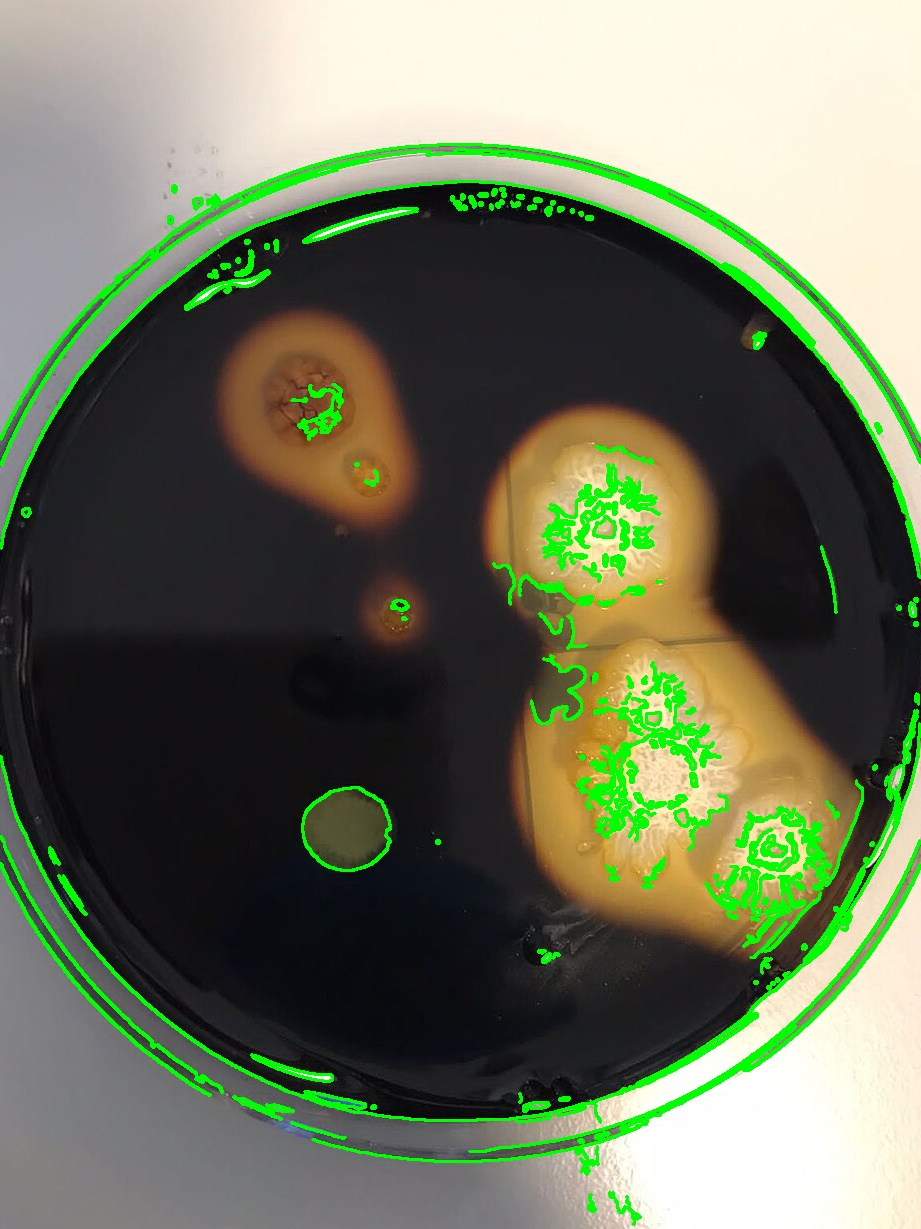
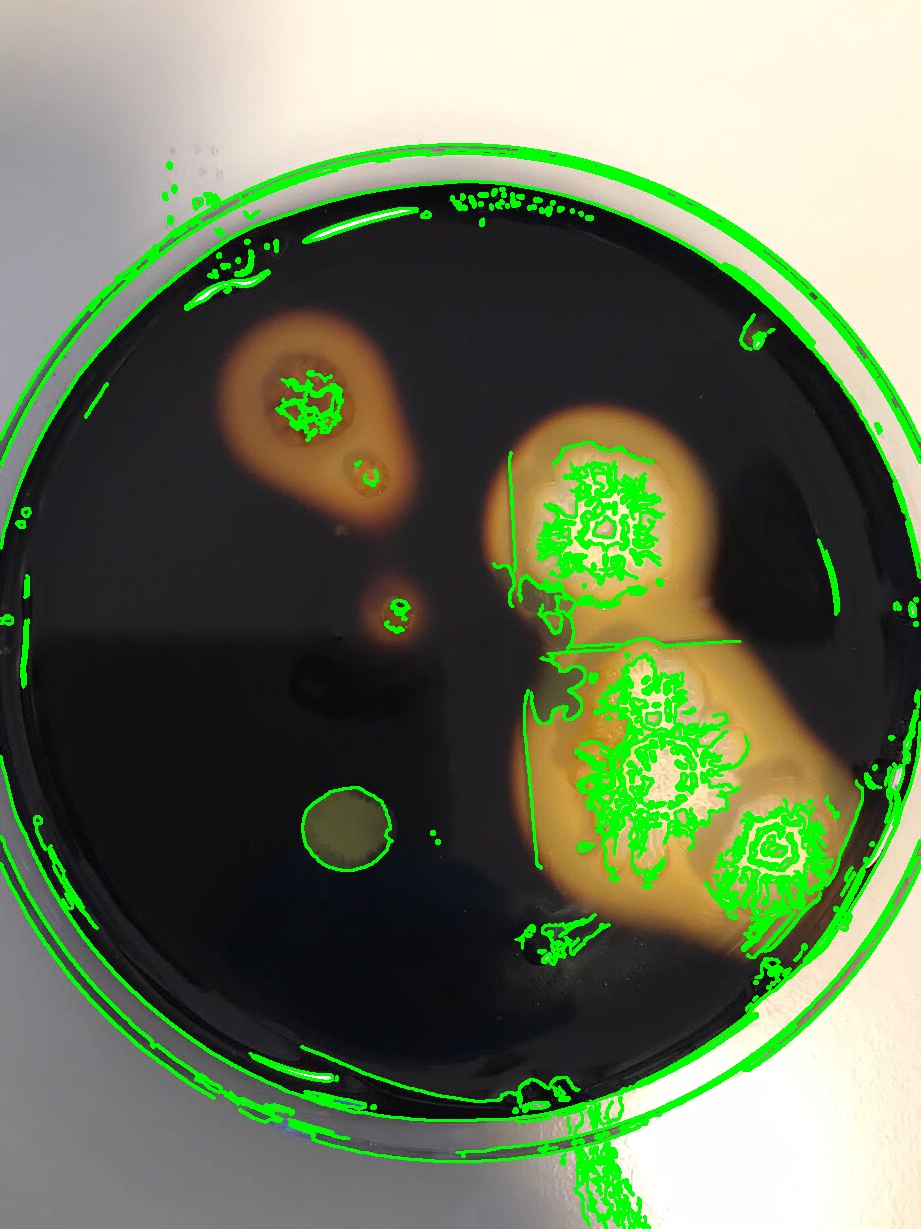
Trial 2 Colony Detection

diff --git a/main.py b/main.py
@@ -68,7 +68,7 @@ cv2.imwrite(os.path.join(output_dir, '5_filtered.jpg'), filtered)
 # STEP 6: Perform Canny Edge Detection 
 # ---------------------------------------------------------
 #Canny detects edges using low (50) and high (150) hysteresis thresholds
-edges = cv2.Canny(filtered, 50, 150)
+edges = cv2.Canny(filtered, 30, 100)
 
 #Save output 6: canny edges
 cv2.imwrite(os.path.join(output_dir, '6_canny_edges.jpg'), edges)
@@ -121,7 +121,7 @@ valid_colony_count = 0
 
 for i, cnt in enumerate(contours): #Loop through every detected contour 
     area = cv2.contourArea(cnt) #Calculate area in pixels
-    if area < 300: #Filter out small noise artifacts
+    if area < 800 or area > 50000: #Filter out small noise artifacts
         continue
 
     valid_colony_count += 1
